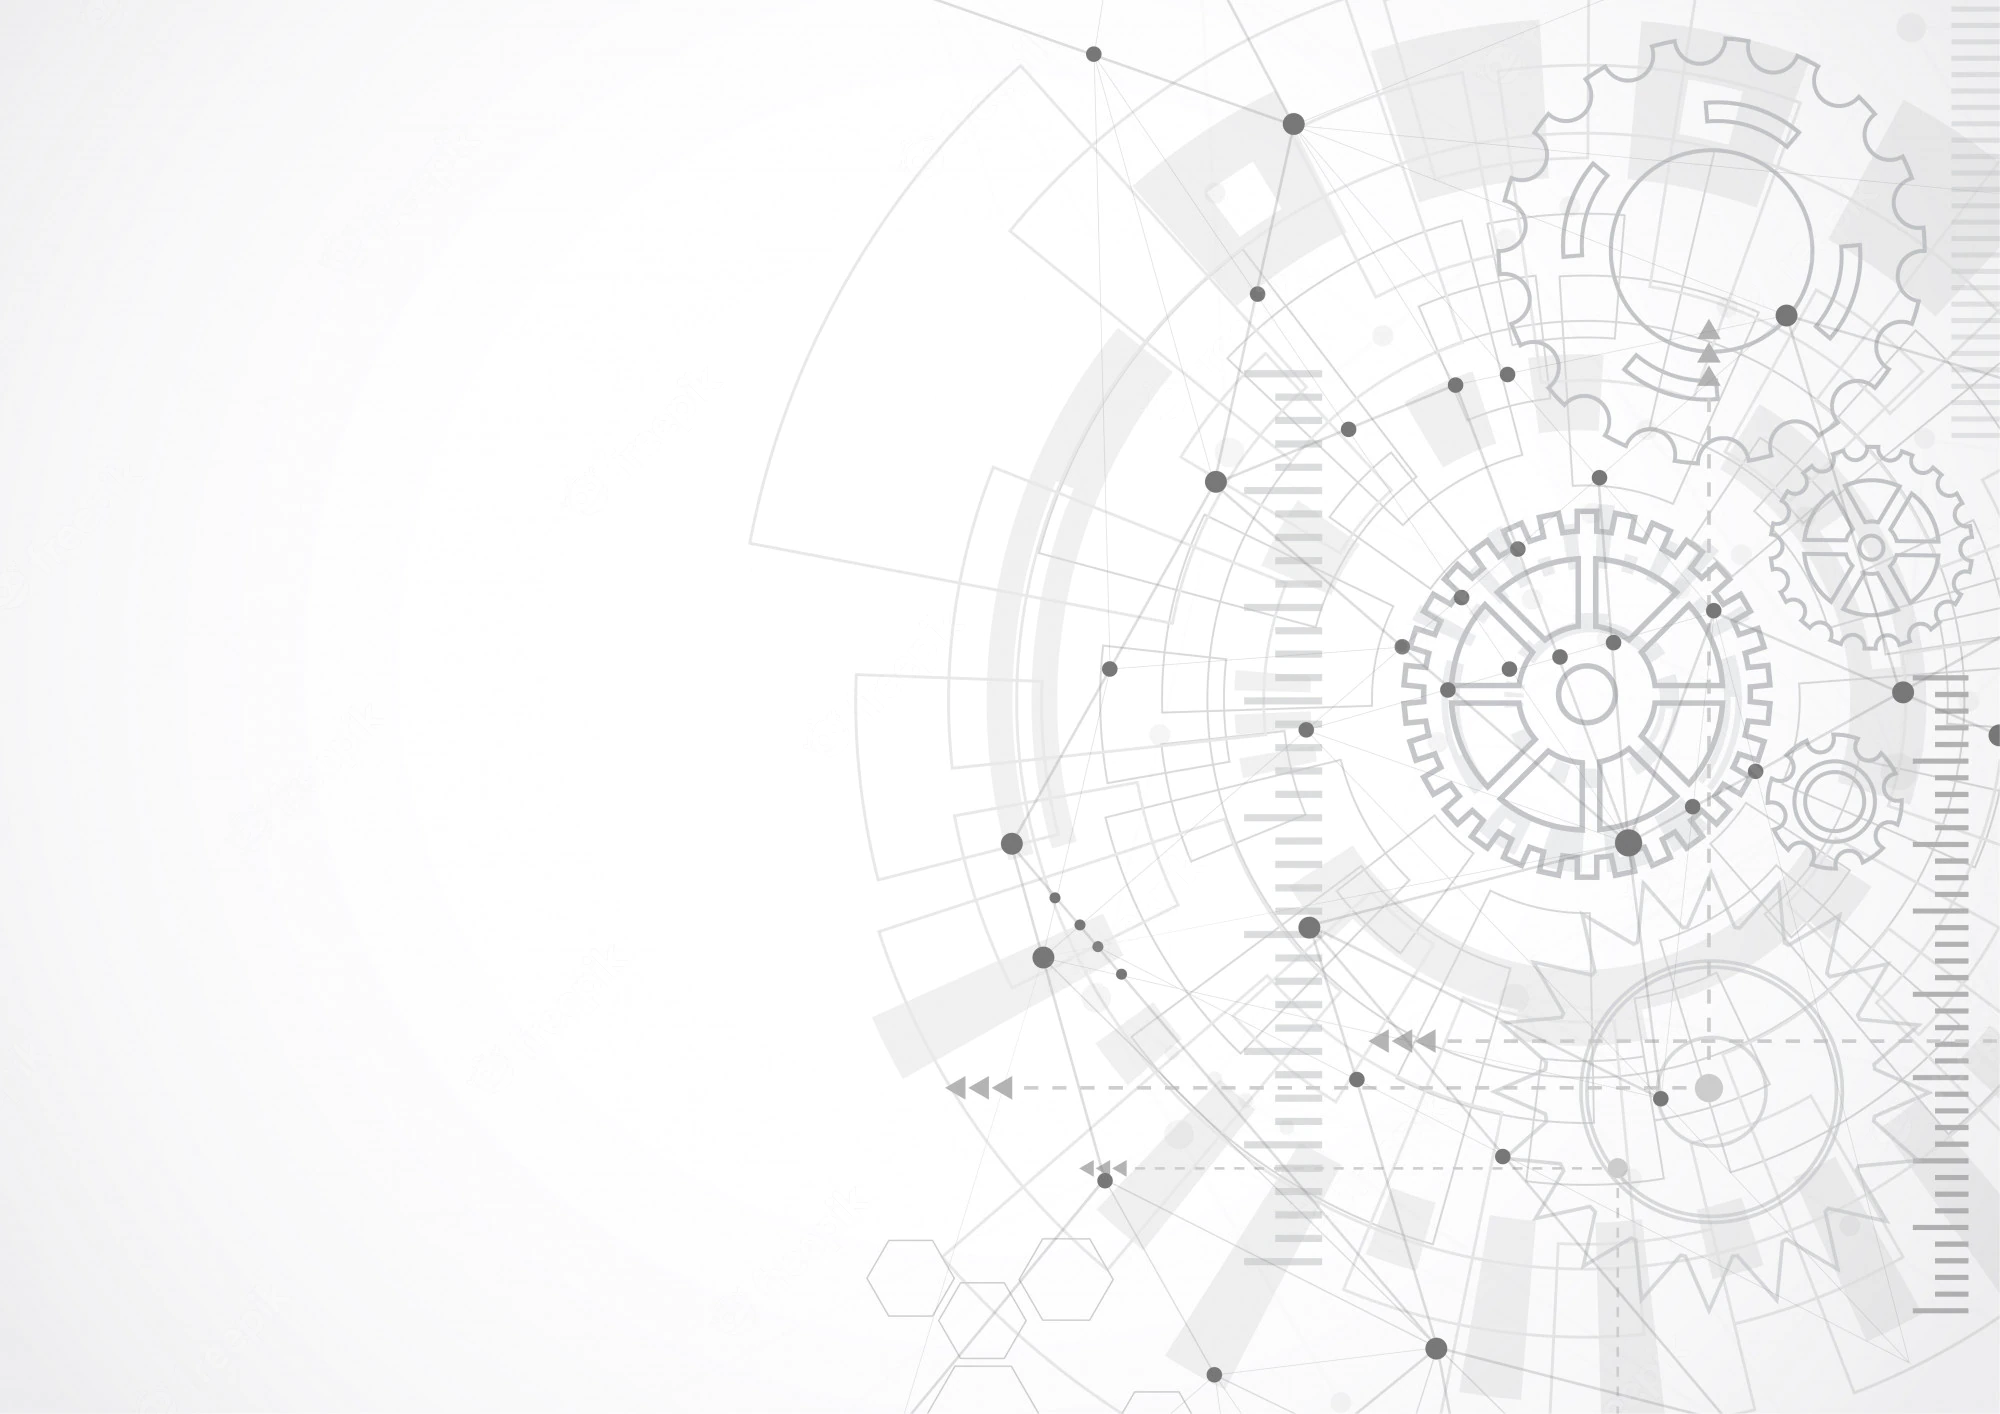
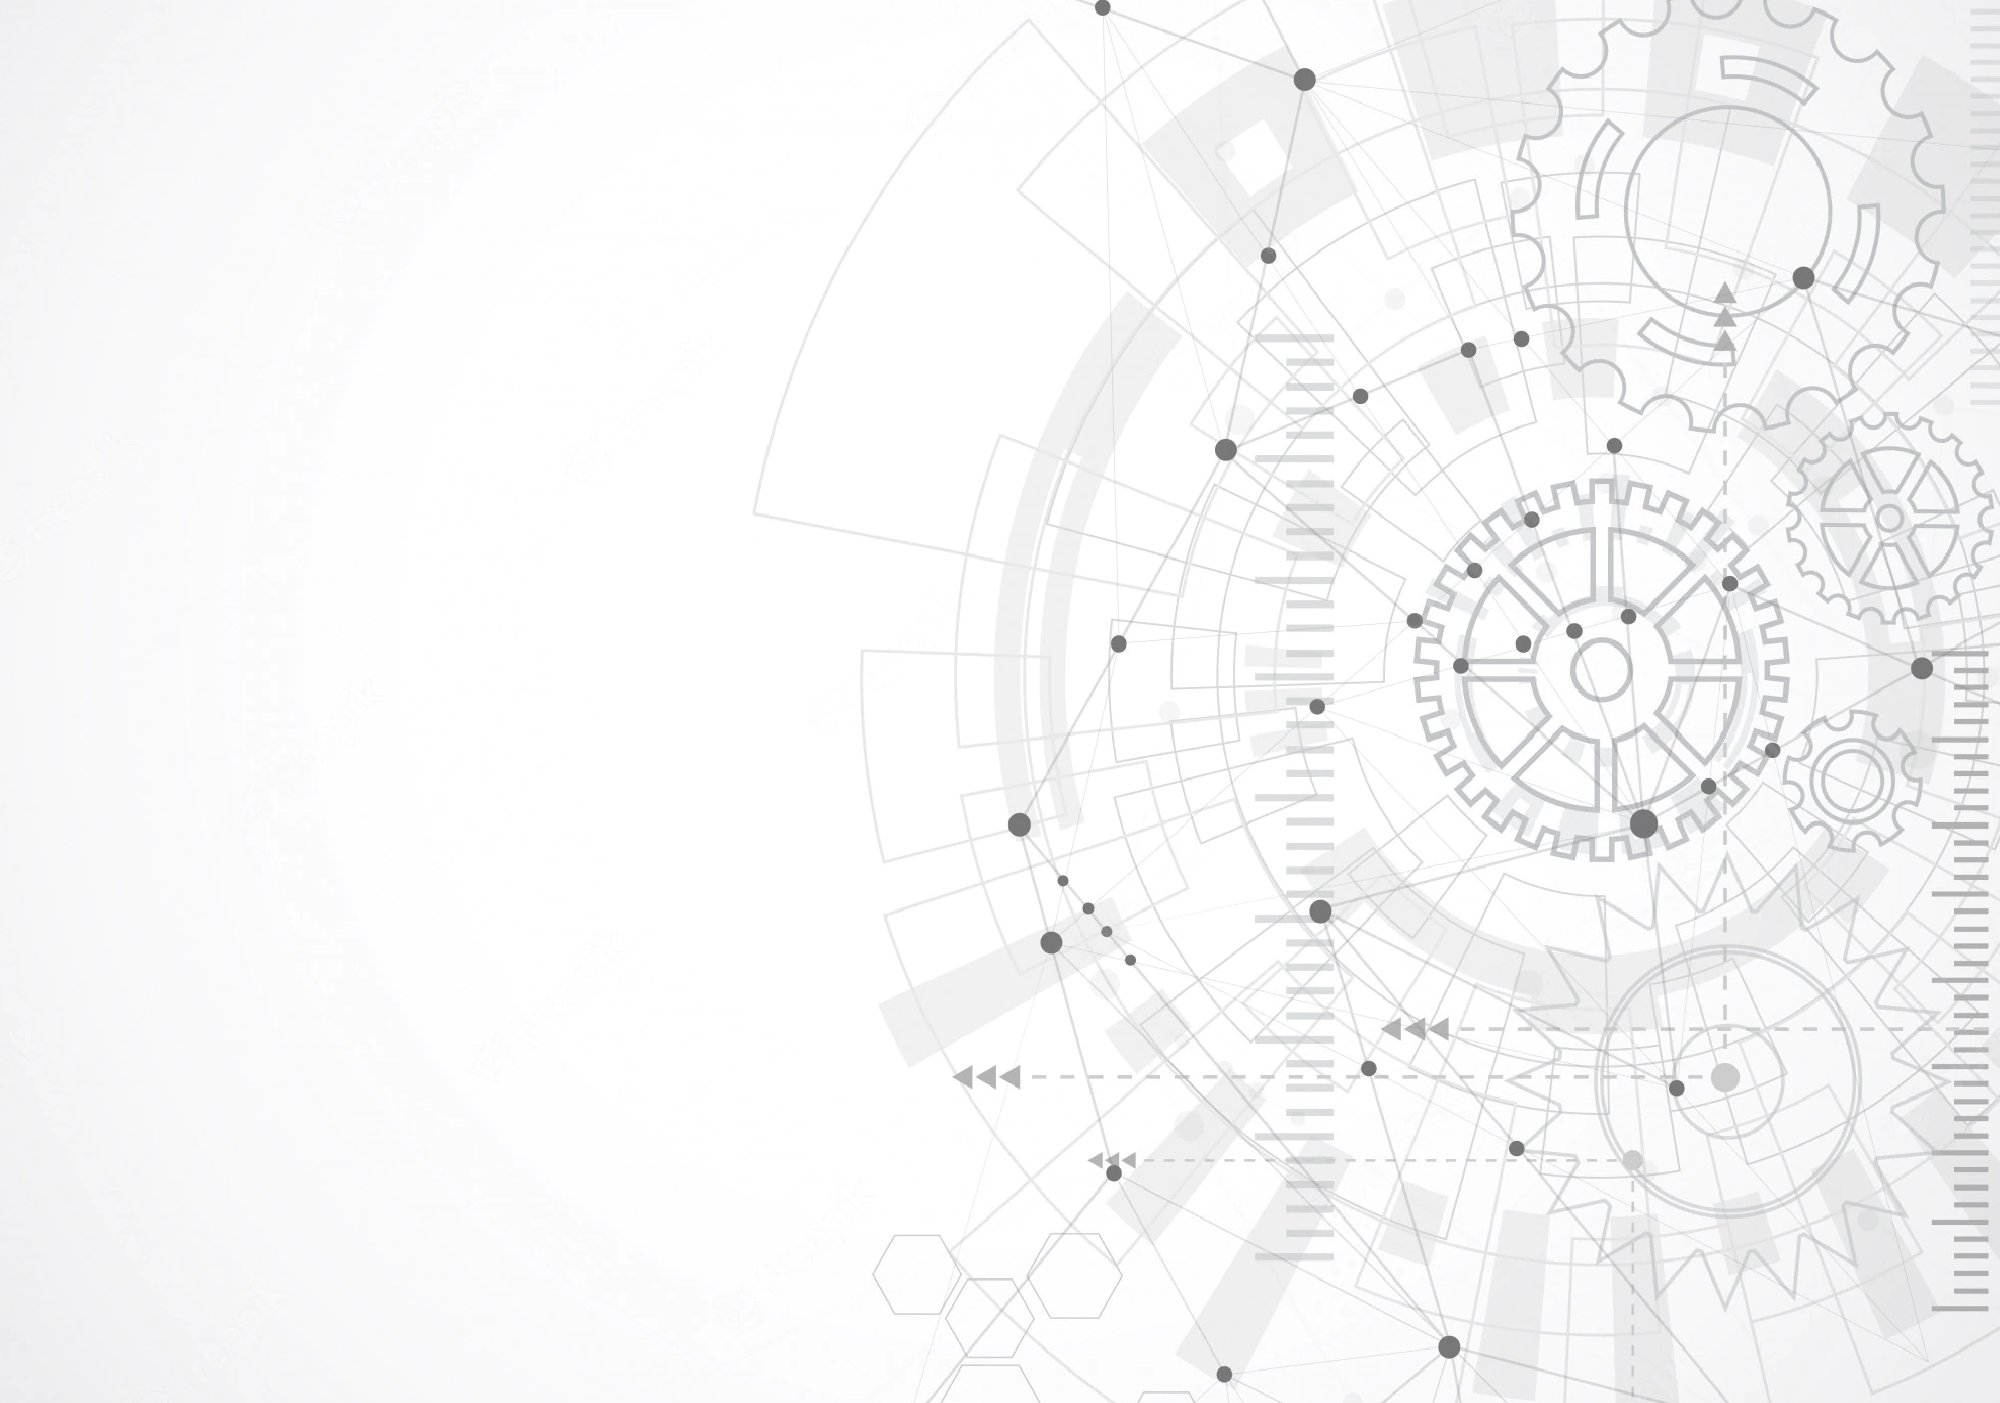
added style and change img to mail page

diff --git a/style.css b/style.css
@@ -12,8 +12,9 @@
 }
 
 .main-container {
-  background-image: url(img/background.webp);
+  background-image: url(img/background.png);
   background-size: 100vw 100vh;
+  padding-bottom: 20px;
 }
 
 .first-header {
@@ -32,8 +33,9 @@
 }
 
 .welcome {
-  width: 50%;
+  width: 80%;
   padding-top: 2rem;
+  padding-bottom: 30px;
 }
 
 .title {
@@ -354,18 +356,7 @@
   align-items: center;
 }
 
-.classes {
-  margin: 5%;
-  width: 90%;
-  height: 300px;
-  text-align: center;
-  color: white;
-  background-image: url(img/2021.jpg);
-  background-repeat: no-repeat;
-  background-size: 100%;
-  padding-top: 100px;
-}
-
+.classes,
 .classes2 {
   margin: 5%;
   width: 90%;
@@ -374,13 +365,30 @@
   color: white;
   background-image: url(img/2021.jpg);
   background-repeat: no-repeat;
-  background-size: 100%;
-  padding-top: 100px;
+  background-size: cover;
+}
+
+.classes2 {
+  margin: 5%;
+  width: 90%;
+  height: 300px;
+  text-align: center;
+  color: white;
+  background-image: url(img/2022.jpg);
+  background-repeat: no-repeat;
+  background-size: cover;
 }
 
 .overlay {
-  background: #ec5242;
-  opacity: 0.5;
+  margin-top: 0;
+  background: #ec524255;
+  width: 100%;
+  height: 100%;
+  padding-top: 0;
+  display: flex;
+  justify-content: center;
+  align-items: center;
+  flex-direction: column;
 }
 
 #about-line {
@@ -544,5 +552,12 @@
     justify-content: center;
     column-gap: 30%;
     margin-bottom: 30px;
+  }
+
+  .classes,
+  .classes2 {
+    margin: 5%;
+    width: 90%;
+    height: 600px;
   }
 }

diff --git a/about.html b/about.html
@@ -88,7 +88,7 @@
     </div>
 
     <div class="classes2">
-      <div class="overlay"></div>
+      <div class="overlay">
       <h2 class="">2021</h2>
       <p>80 students succesfully finished</p>
     </div>
